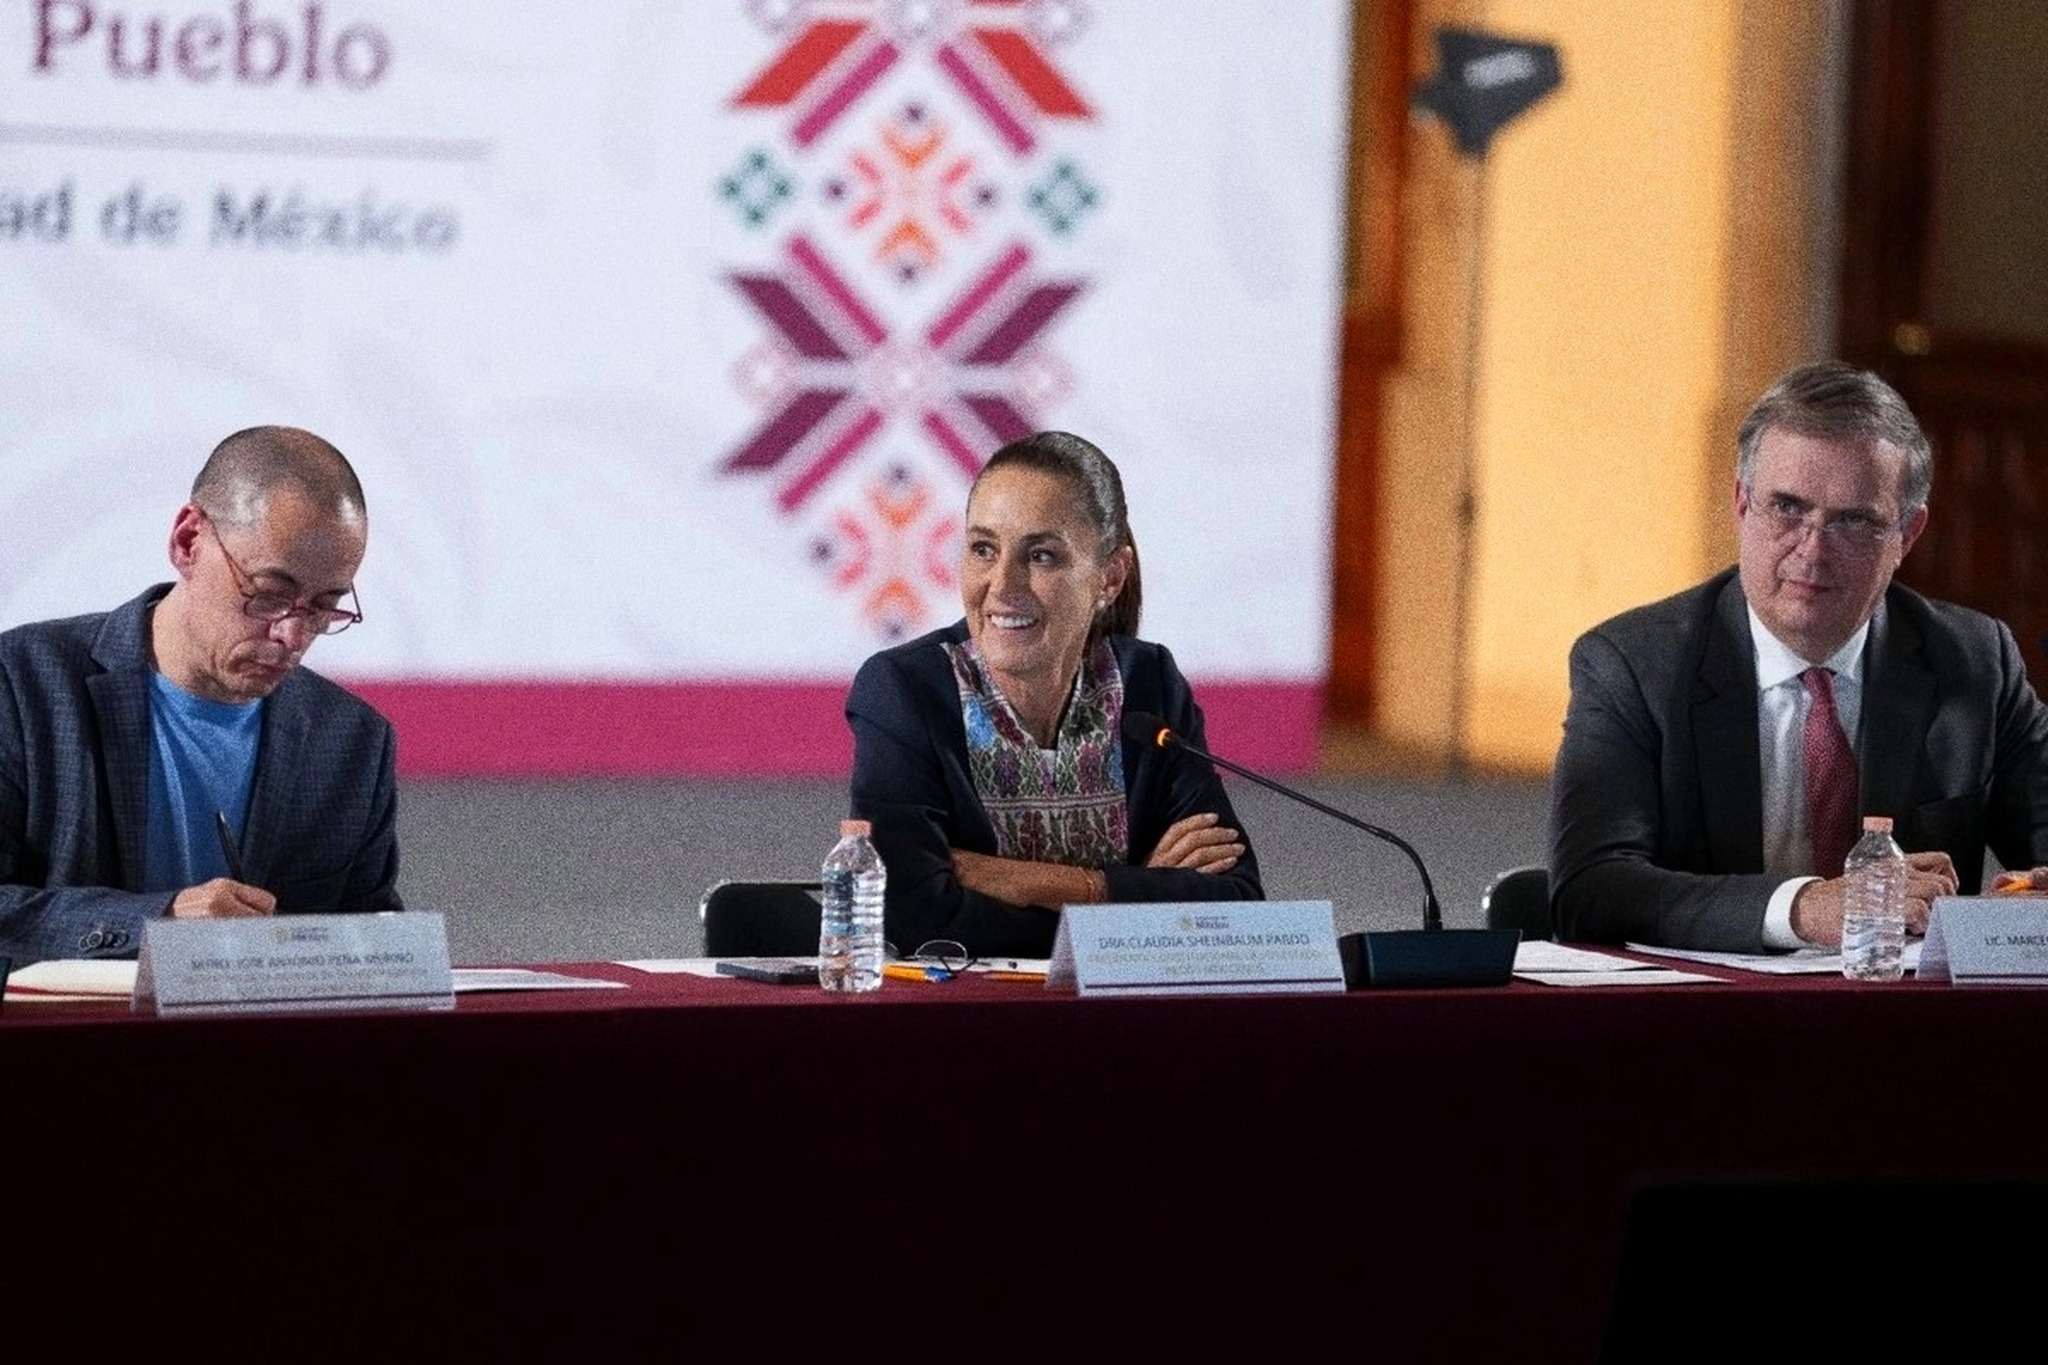
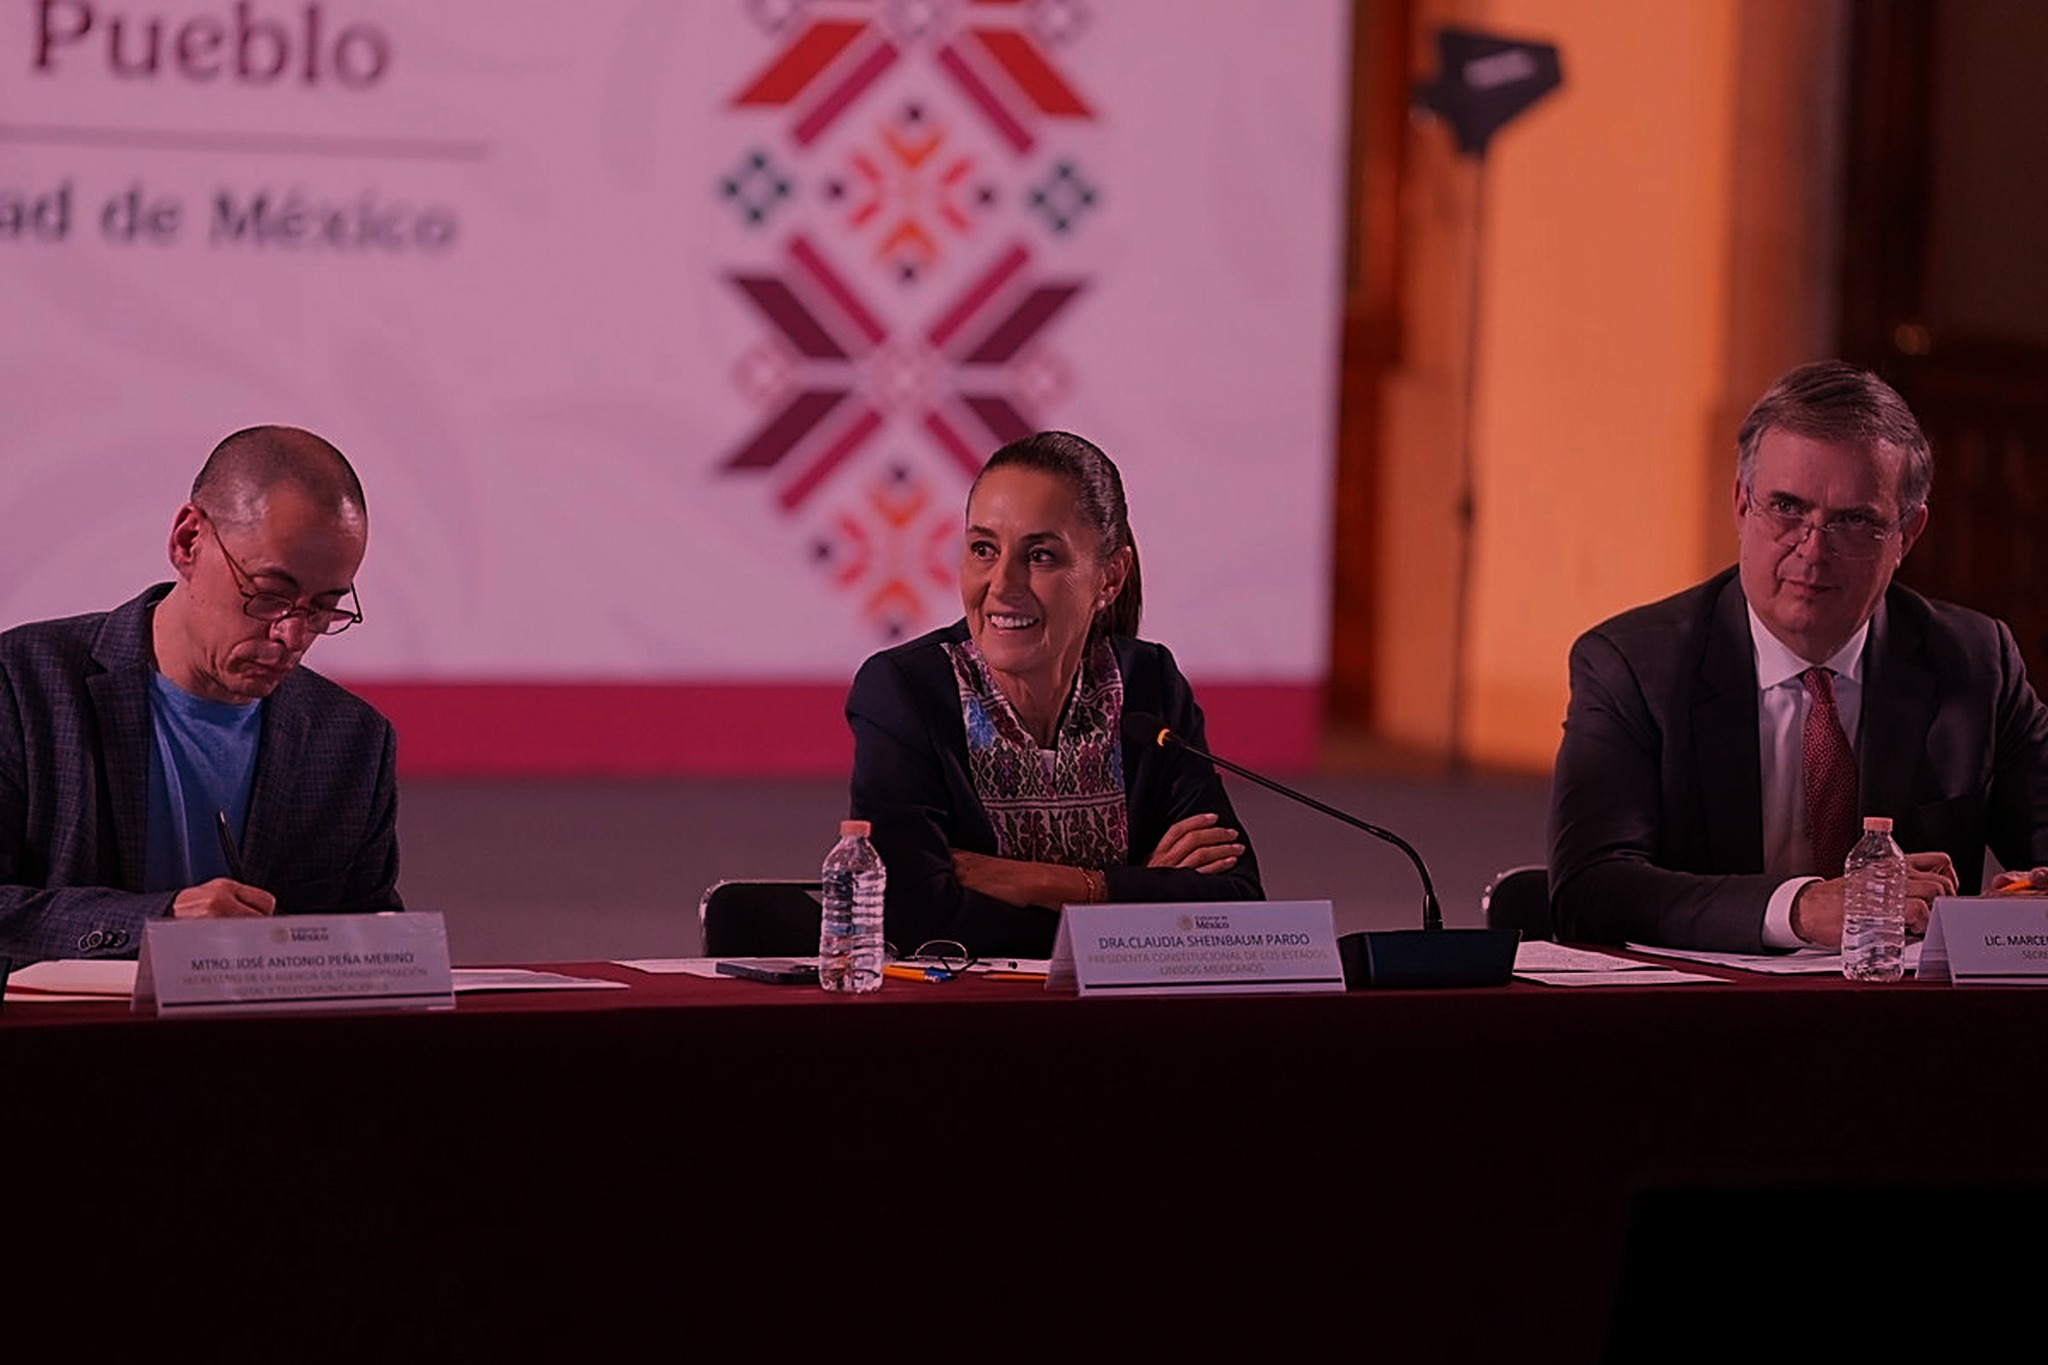
USMCA industry certainty: apply wash filter to featured

diff --git a/translations/2026-07-02-usmca-industry-certainty/article.html b/translations/2026-07-02-usmca-industry-certainty/article.html
@@ -1,5 +1,5 @@
-<!-- wp:image {"id":17594,"sizeSlug":"large"} -->
-<figure class="wp-block-image"><img src="https://mexicosolidarity.com/wp-content/uploads/2026/07/2026-07-02-usmca-industry-certainty-large.jpg" alt="President Claudia Sheinbaum smiling at a table during a meeting at the National Palace, flanked by two officials"/><figcaption class="wp-element-caption">Photo: Presidencia</figcaption></figure>
+<!-- wp:image {"id":17598,"sizeSlug":"large"} -->
+<figure class="wp-block-image"><img src="https://mexicosolidarity.com/wp-content/uploads/2026/07/2026-07-02-usmca-industry-certainty-large-1.jpg" alt="President Claudia Sheinbaum smiling at a table during a meeting at the National Palace, flanked by two officials"/><figcaption class="wp-element-caption">Photo: Presidencia</figcaption></figure>
 <!-- /wp:image -->
 
 <!-- wp:paragraph -->
